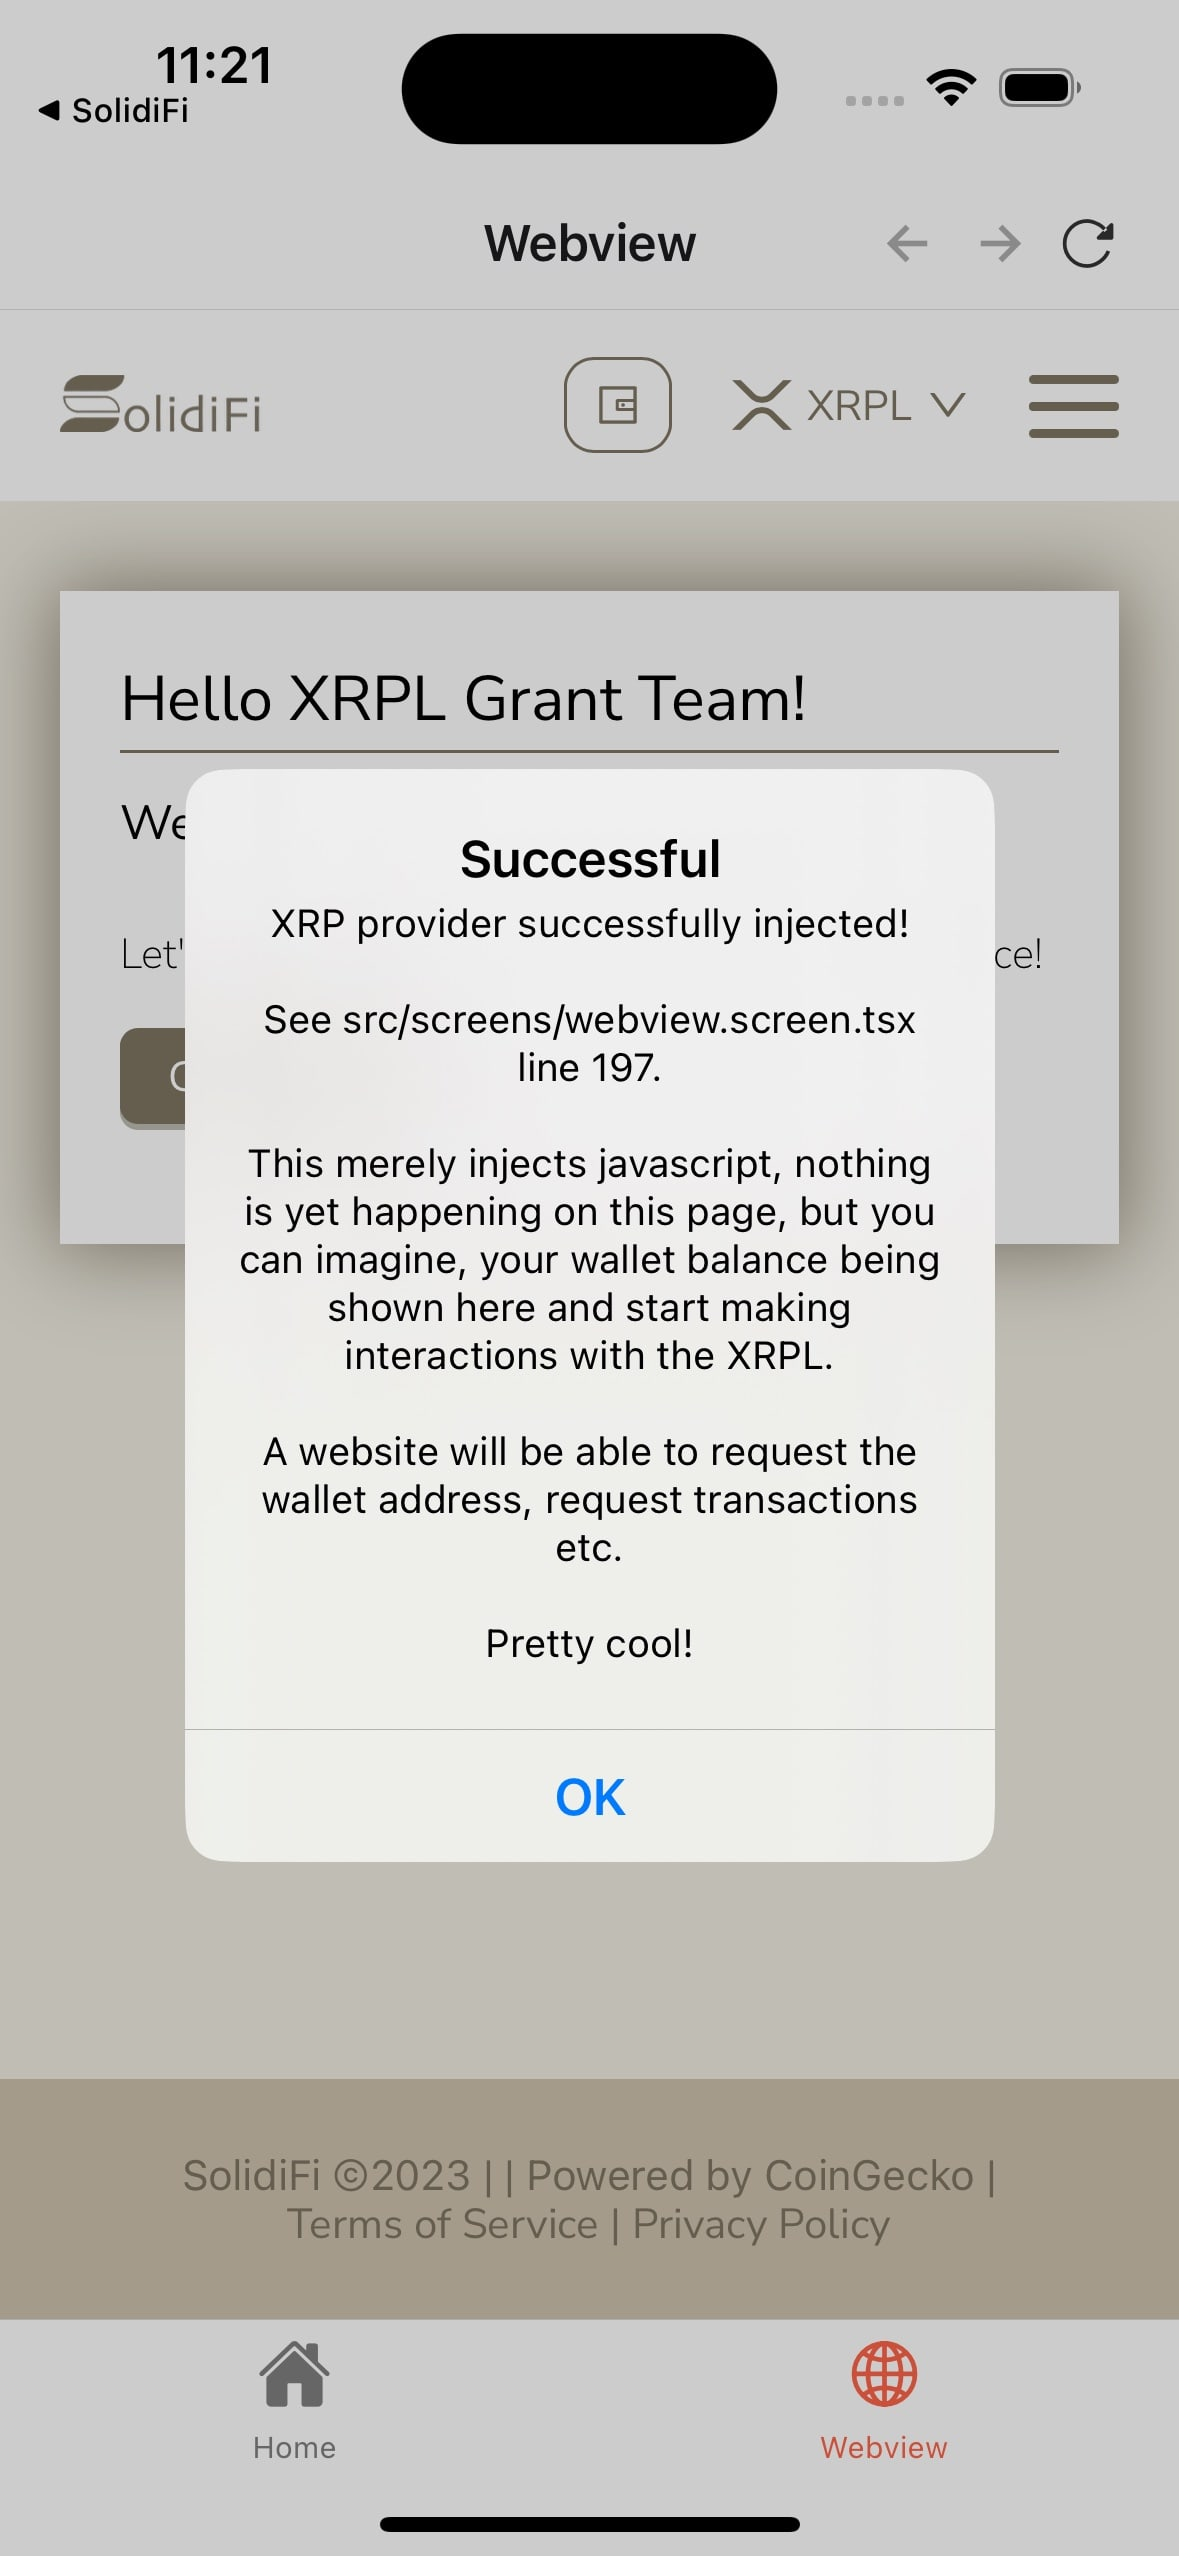
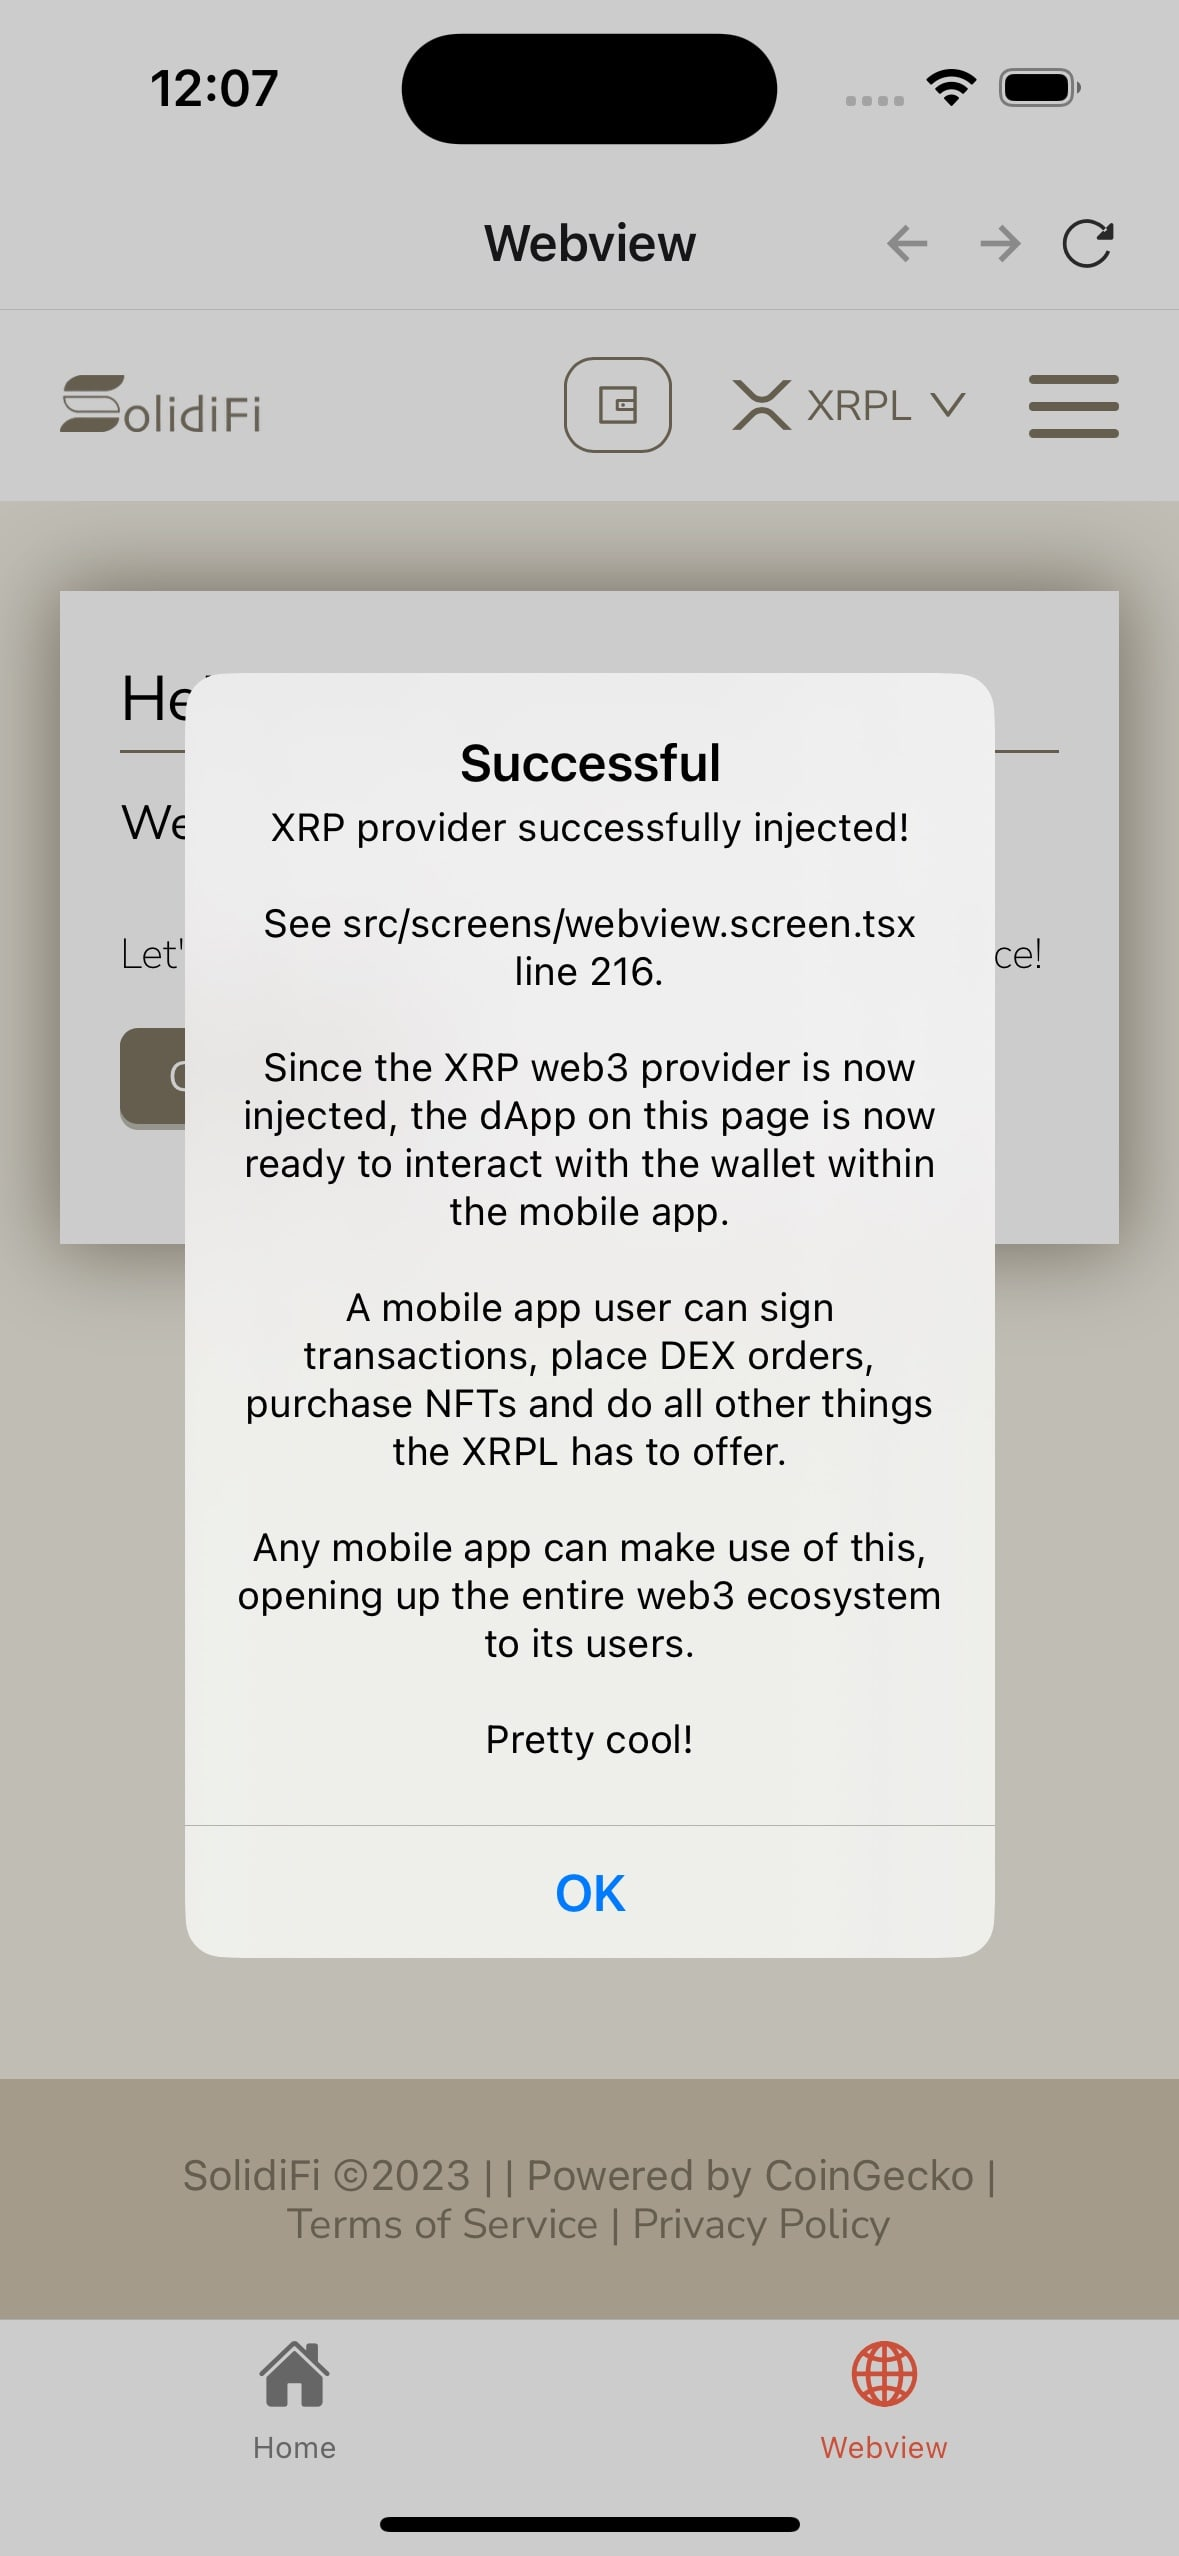
updated image and improved text in popup

Changed region(s): [[0.1527, 0.2473, 0.855, 0.6491], [0.1527, 0.68, 0.855, 0.7727], [0.0305, 0.0, 0.2443, 0.0618]]

diff --git a/src/screens/webview.screen.tsx b/src/screens/webview.screen.tsx
@@ -227,7 +227,7 @@ export const WebViewScreen = ({navigation, route}: RouteNavigation) => {
           if (!e.loading) {
             Alert.alert(
               "Successful",
-              "XRP provider successfully injected!\n\nSee src/screens/webview.screen.tsx line 197.\n\nThis merely injects javascript, nothing is yet happening on this page, but you can imagine, your wallet balance being shown here and start making interactions with the XRPL.\n\nA website will be able to request the wallet address, request transactions etc.\n\nPretty cool!"
+              "XRP provider successfully injected!\n\nSee src/screens/webview.screen.tsx line 216.\n\nSince the XRP web3 provider is now injected, the dApp on this page is now ready to interact with the wallet within the mobile app.\n\nA mobile app user can sign transactions, place DEX orders, purchase NFTs and do all other things the XRPL has to offer.\n\nAny mobile app can make use of this, opening up the entire web3 ecosystem to its users.\n\nPretty cool!"
             );
           }
         }}
